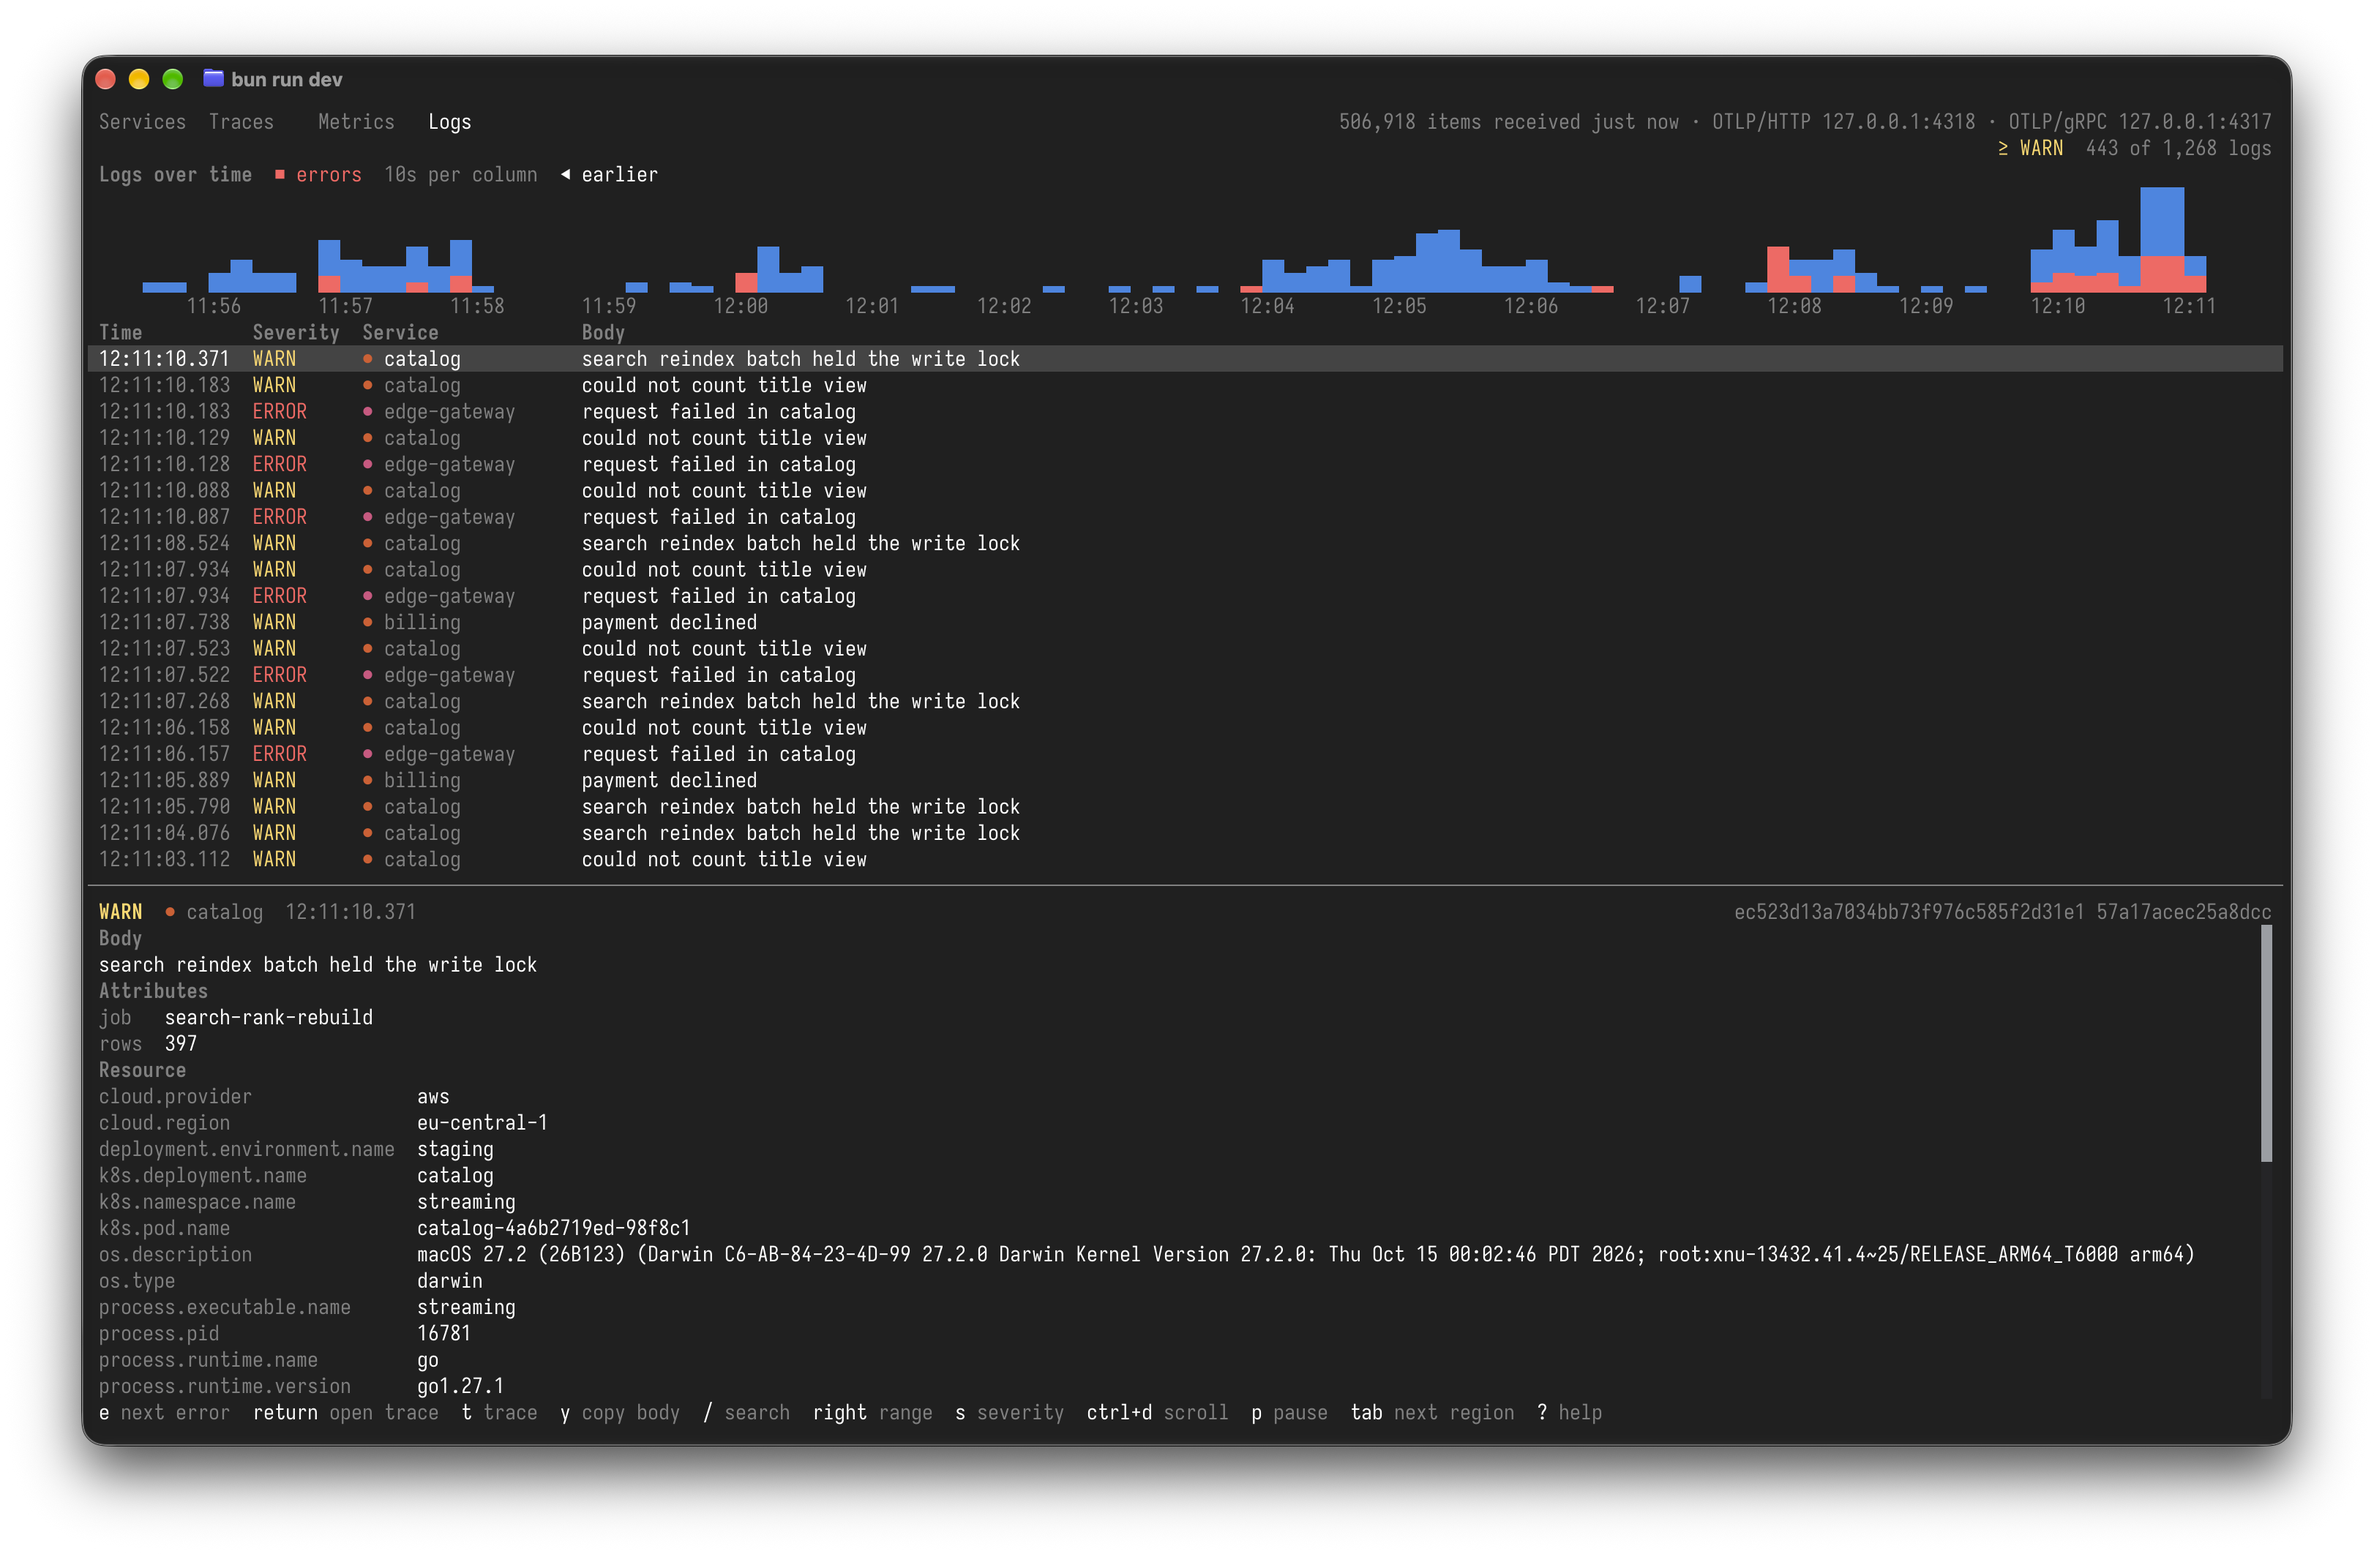
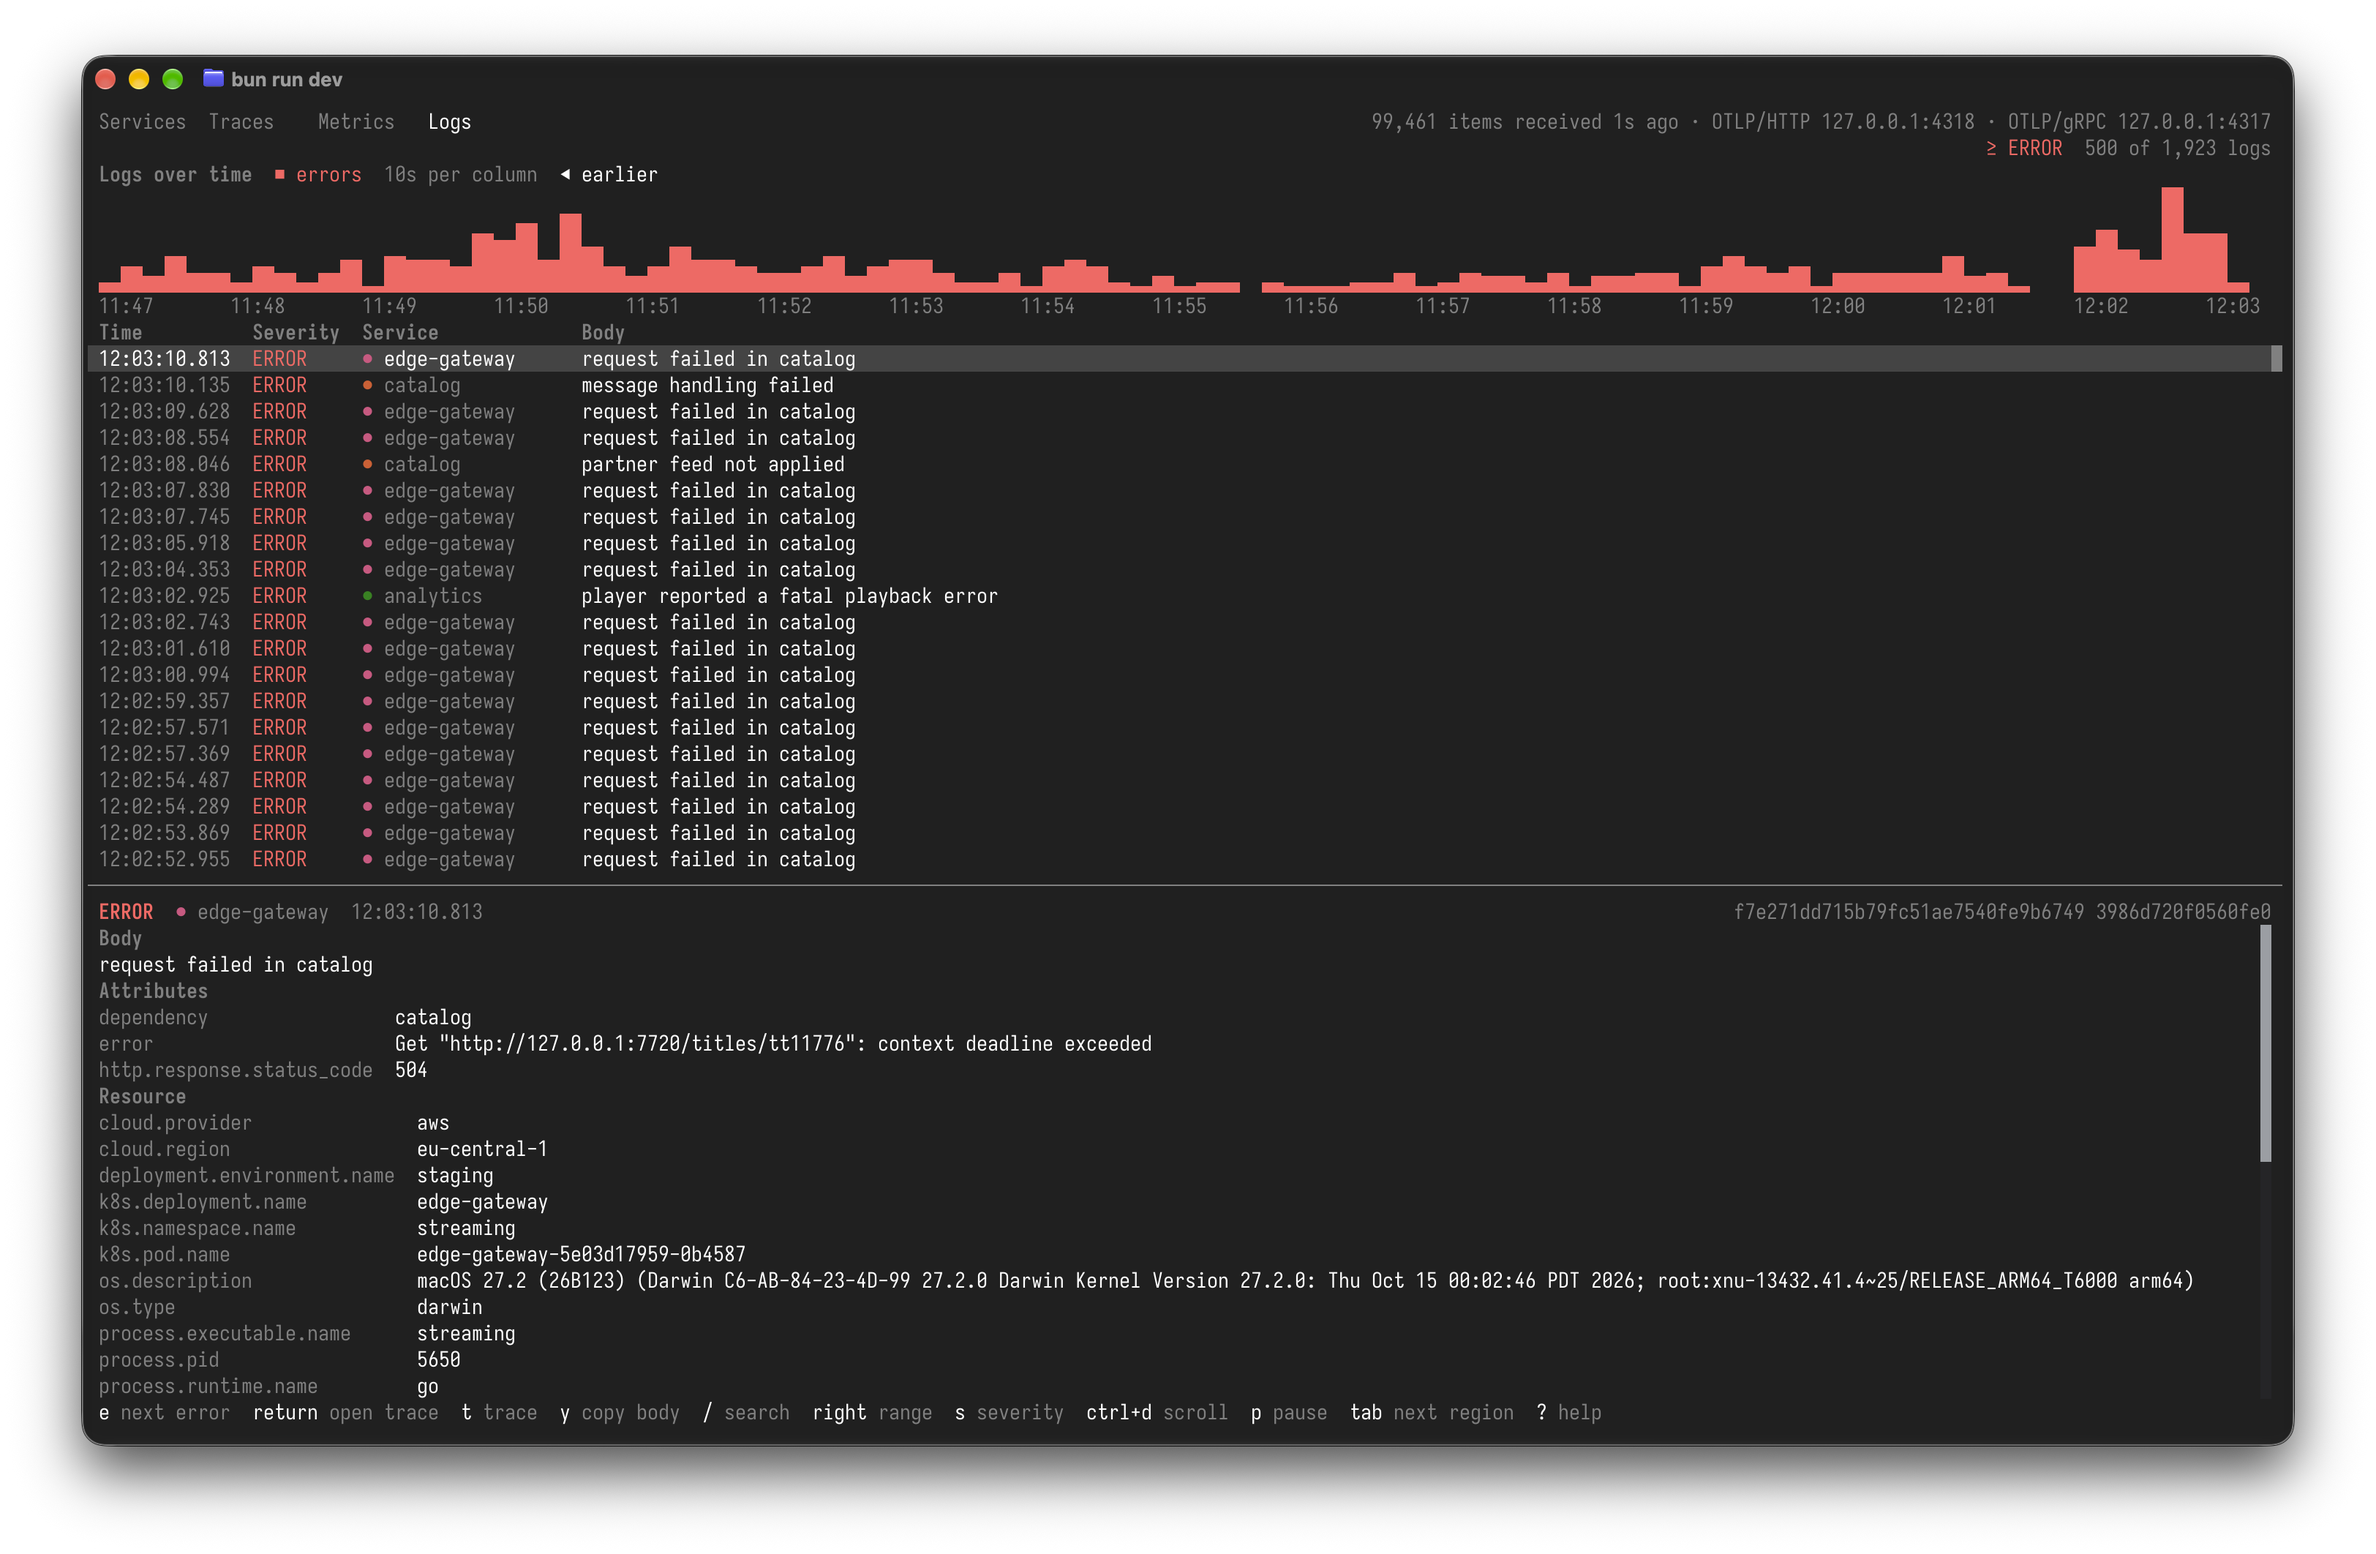
docs: refresh the logs screenshot

diff --git a/README.md b/README.md
@@ -104,7 +104,7 @@ trace at its span; exemplars whose trace otel-tui never received are marked
 
 ### Logs
 
-![Logs view filtered to warnings and above, with a chart of logs over time above the severity, service, and body columns and the selected log's body, attributes, resource, and trace ID](docs/logs-view.png)
+![Logs view filtered to errors, with a chart of logs over time above the severity, service, and body columns and the selected log's body, attributes, resource, and trace ID](docs/logs-view.png)
 
 The log table comes with a panel for the selected log's body, attributes,
 resource, and trace ID. `e` jumps to the next error, `return` opens the
